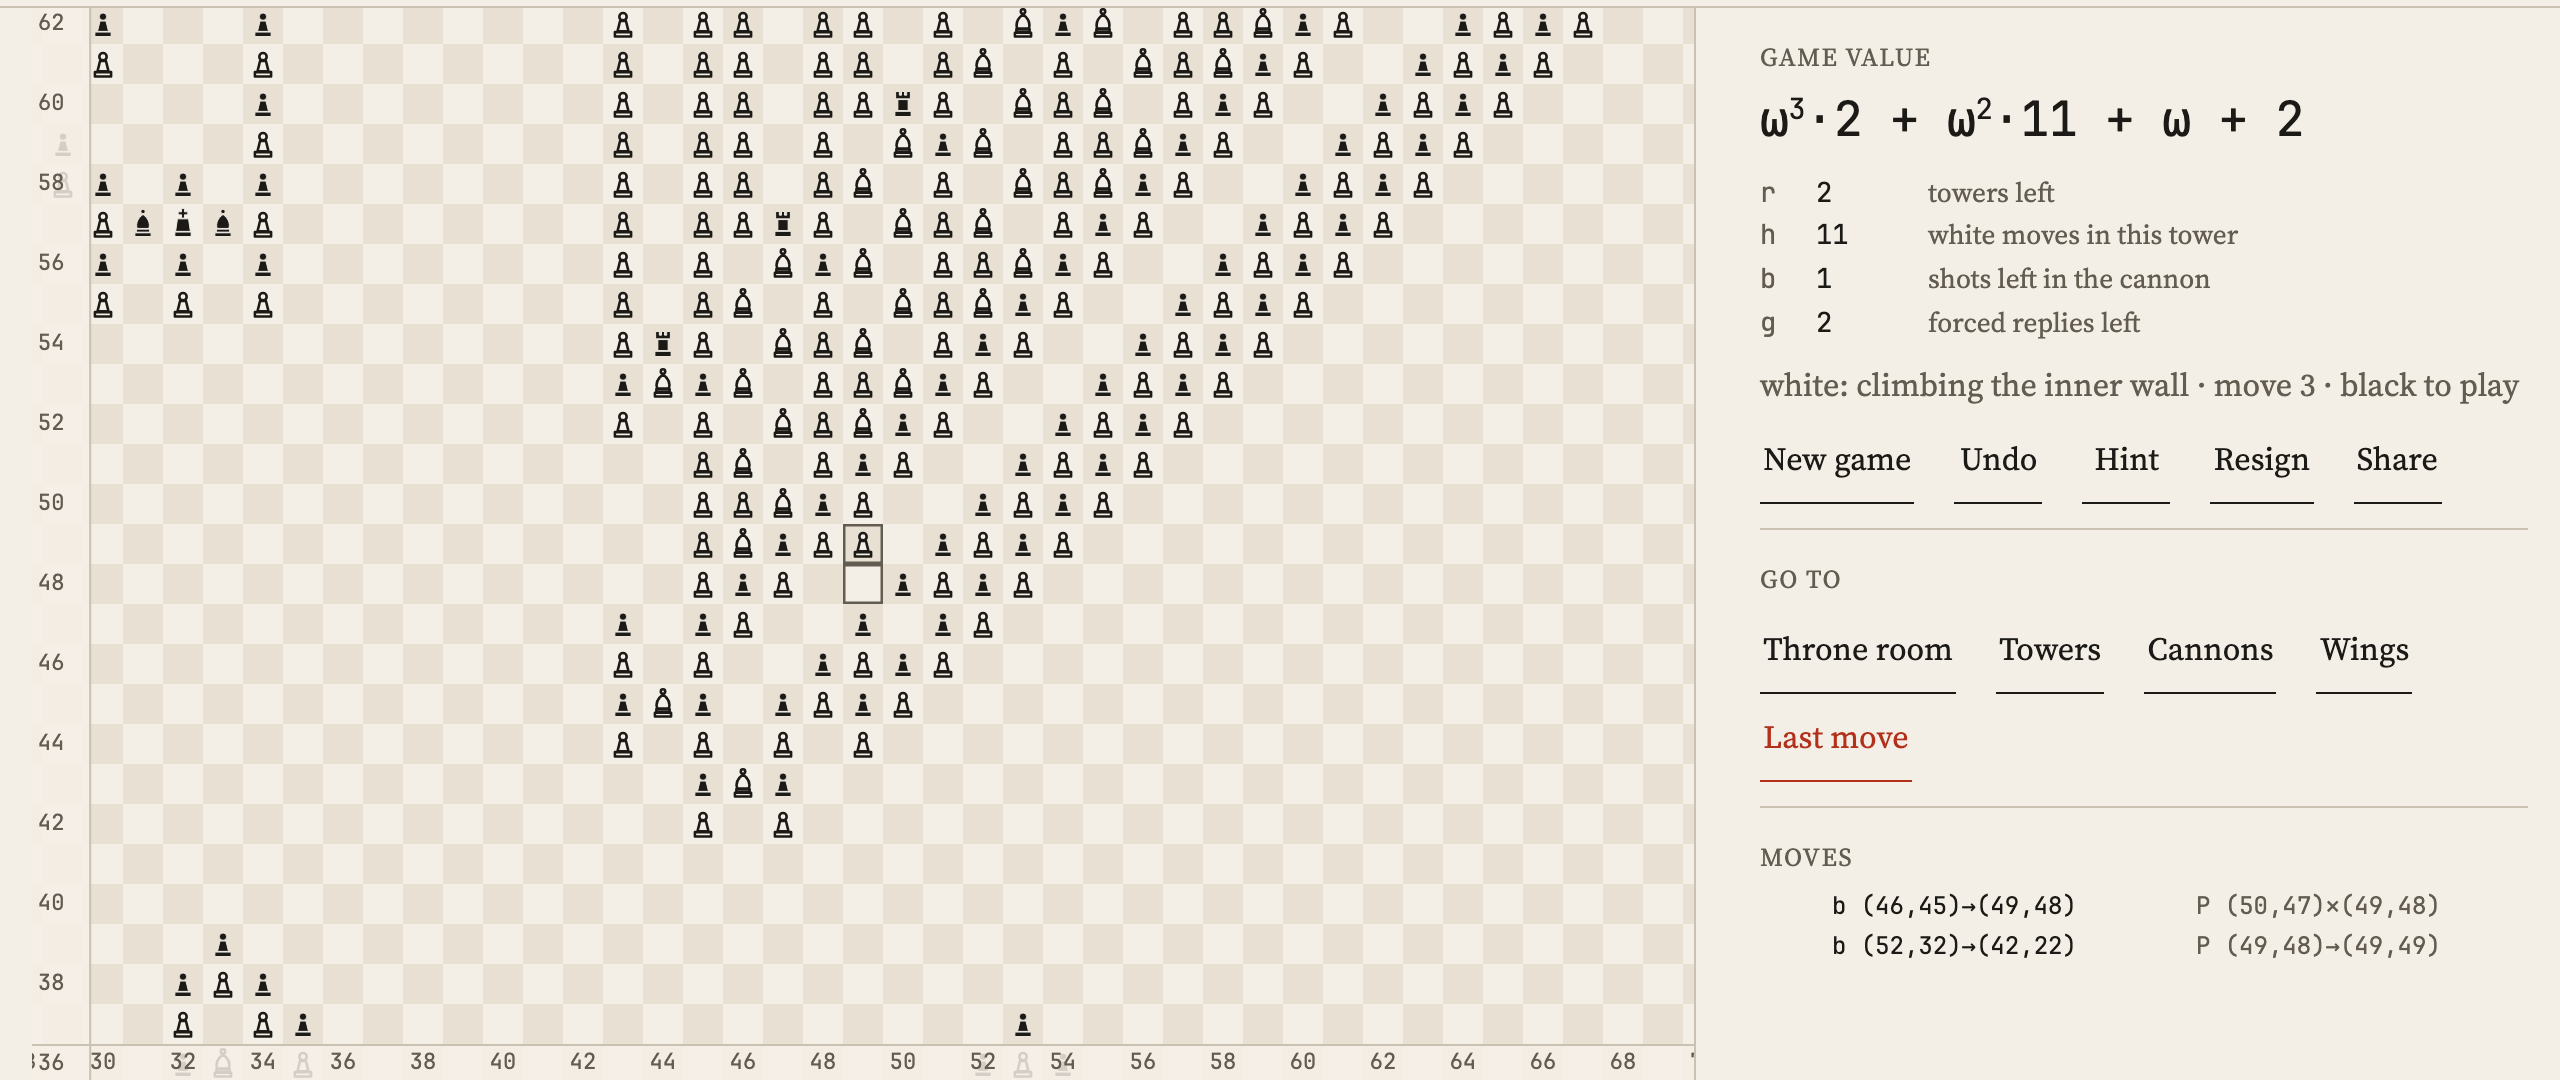
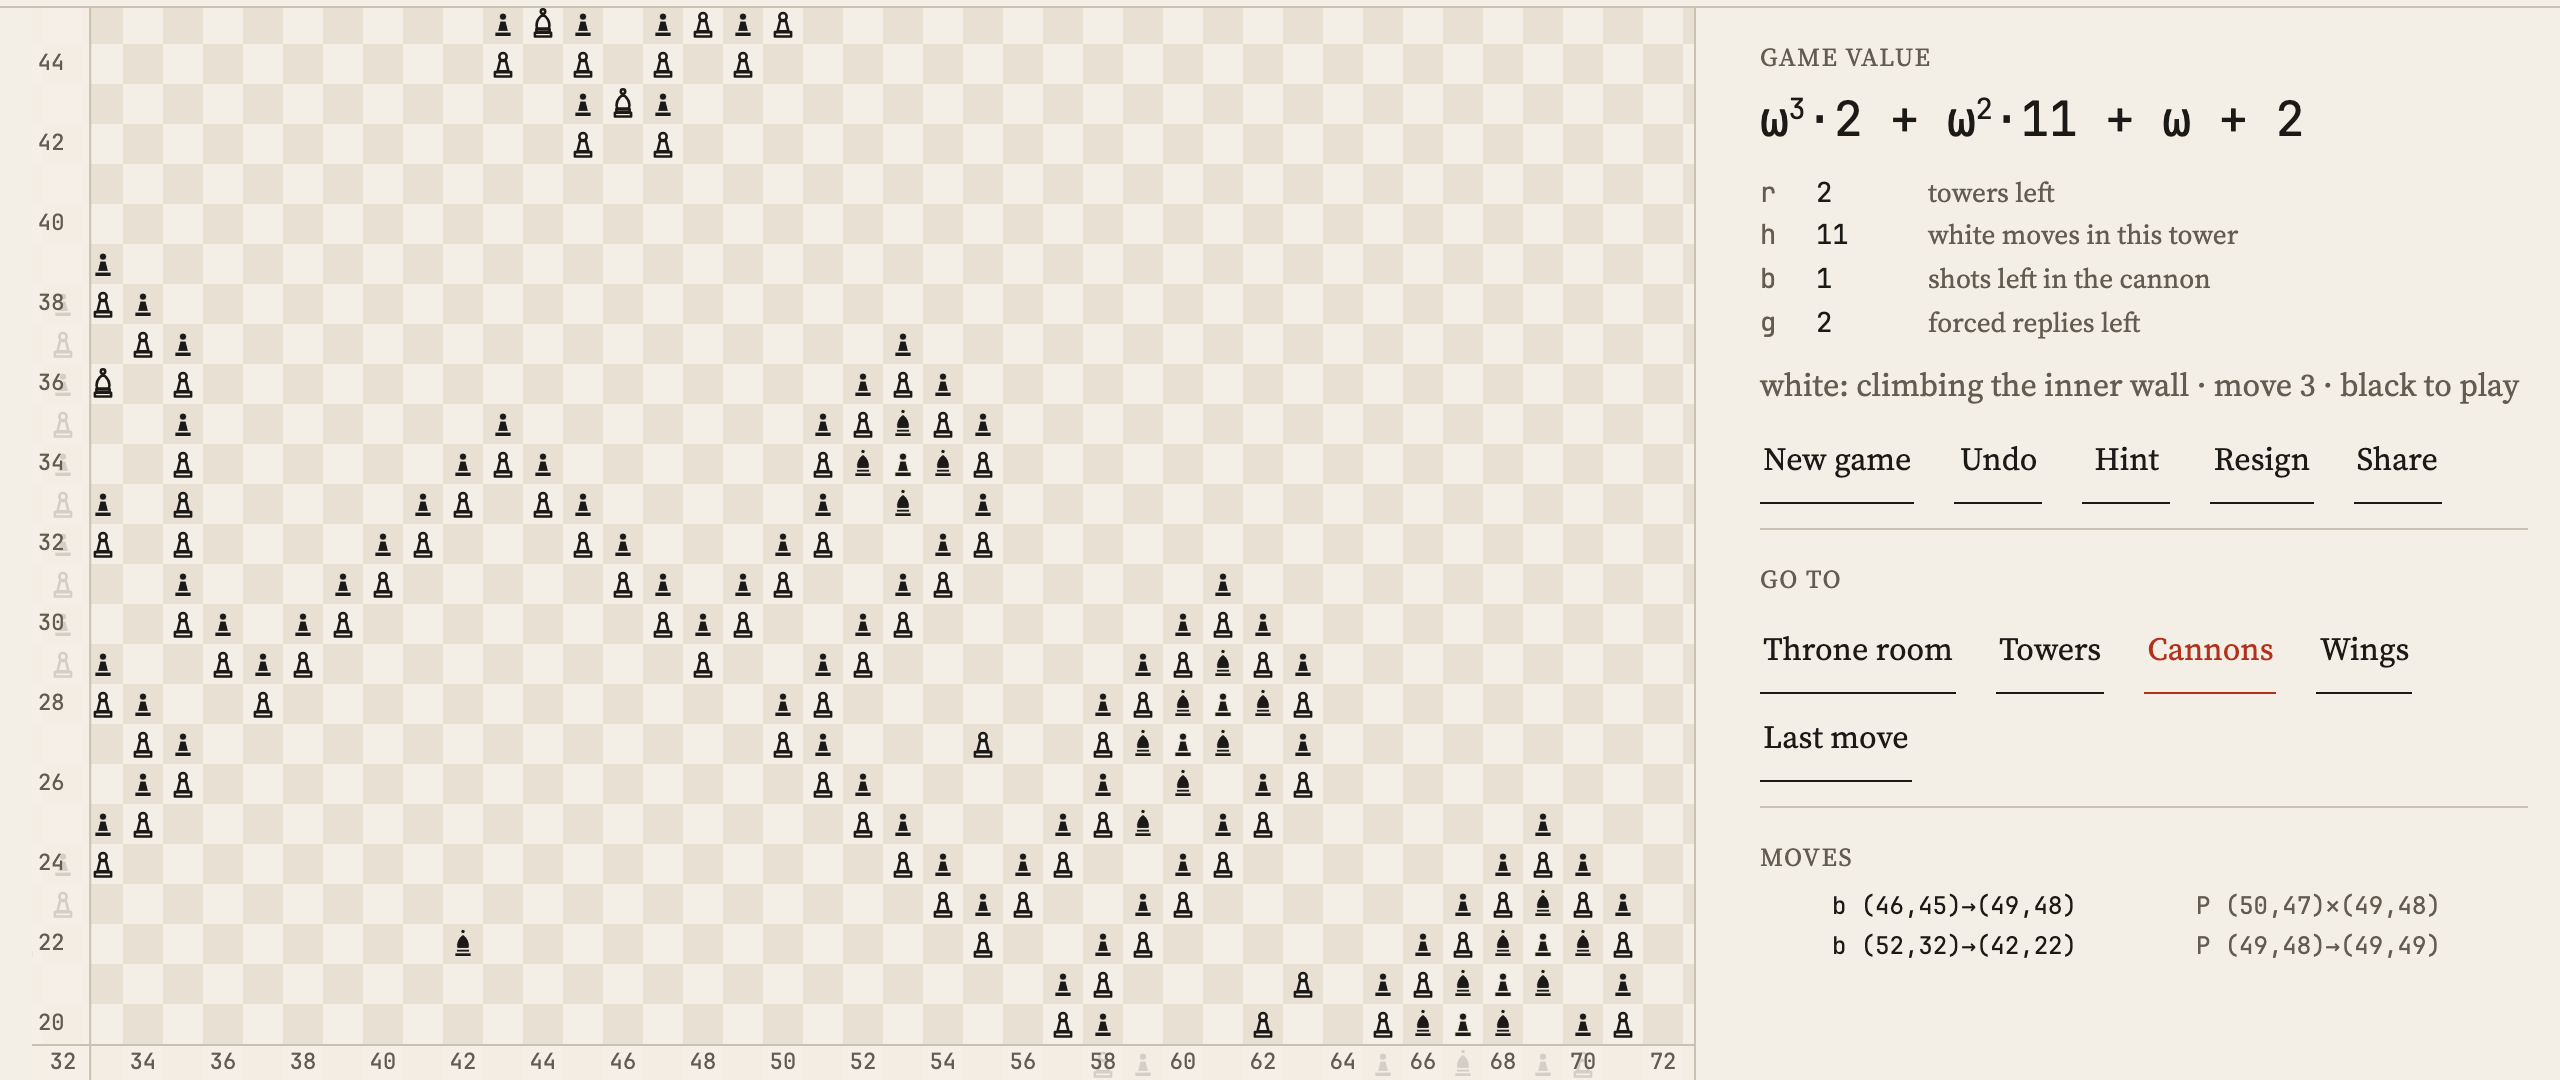
fix(talk): name the value slides plainly and frame the cannon still on the cannon
"The accounting" said nothing to a viewer; the frames are now "The
value of a main-line position" and "The value, move by move". The rook
caption no longer quotes an h the still cannot show, and the notes say
why it reads 13 after the capture. Moment 2 is centred on the cannon so
the fired bishop is in the frame.

diff --git a/talk/slides.tex b/talk/slides.tex
@@ -36,7 +36,7 @@
   \begin{tabular}{@{}ll@{}}
     \toprule
     Part A, Sean & ordinals, open games, game values, positions worth $\omega$, $\omega^2$, $\omega^3$ \\
-    Part B, Andrew & the position worth $\omega^4$, its main line, the accounting, a live demo \\
+    Part B, Andrew & the position worth $\omega^4$, its main line, how the value falls move by move \\
     \bottomrule
   \end{tabular}
 \end{frame}
@@ -347,7 +347,7 @@
   \end{columns}
 \end{frame}
 
-\begin{frame}{The accounting}
+\begin{frame}{The value of a main-line position}
   \begin{block}{The value during the main line (\EHP, Section 3)}
     \[
       \omega^3\cdot r \;+\; \omega^2\cdot h \;+\; \omega\cdot b \;+\; g
@@ -365,7 +365,7 @@
   \flag{proof sketch} the paper's analysis is careful but informal in places; the slide reports its structure.
 \end{frame}
 
-\begin{frame}{The accounting, seen moving}
+\begin{frame}{The value, move by move}
   \flag{supplementary, ours} The next five frames are stills from a browser implementation of the Section 4
   compact position and of white's strategy, written for this presentation. It is not part of the published
   results. \url{https://infinite-chess.dwainosaur.com}
@@ -373,7 +373,7 @@
   Each still is the panel after one black move and white's reply. Watch which term moves.
 \end{frame}
 
-\begin{frame}{The accounting, moment 1 of 5}
+\begin{frame}{The value, move by move: 1 of 5}
   \framesubtitle{The key bishop goes out three squares}
   \centering
   \includegraphics[width=\textwidth,height=0.67\textheight,keepaspectratio]{figures/demo/1-key-bishop.png}
@@ -381,7 +381,7 @@
   {\footnotesize White takes it: $\omega^3\cdot 2+\omega^2\cdot 12$. The distance chose $r=2$; $h=12$ free moves to go in this tower.}
 \end{frame}
 
-\begin{frame}{The accounting, moment 2 of 5}
+\begin{frame}{The value, move by move: 2 of 5}
   \framesubtitle{Black opens cannon 1 at wing 1}
   \centering
   \includegraphics[width=\textwidth,height=0.67\textheight,keepaspectratio]{figures/demo/2-cannon-open.png}
@@ -389,7 +389,7 @@
   {\footnotesize $b$ and $g$ appear, and white's one free move took $h$ from 12 to 11: $\omega^3\cdot 2+\omega^2\cdot 11+\omega+2$.}
 \end{frame}
 
-\begin{frame}{The accounting, moment 3 of 5}
+\begin{frame}{The value, move by move: 3 of 5}
   \framesubtitle{The bishop attacks gate 1; white answers}
   \centering
   \includegraphics[width=\textwidth,height=0.67\textheight,keepaspectratio]{figures/demo/3-gate-answered.png}
@@ -397,7 +397,7 @@
   {\footnotesize A forced reply: $g$ went from 2 to 1 and nothing else moved: $\omega^3\cdot 2+\omega^2\cdot 11+\omega+1$.}
 \end{frame}
 
-\begin{frame}{The accounting, moment 4 of 5}
+\begin{frame}{The value, move by move: 4 of 5}
   \framesubtitle{Shooter 1 fires at wing 2}
   \centering
   \includegraphics[width=\textwidth,height=0.67\textheight,keepaspectratio]{figures/demo/4-shot.png}
@@ -405,12 +405,12 @@
   {\footnotesize $b$ fell to 0 and $g$ jumped to 7 as the shot reached a fresh wing: $\omega^3\cdot 2+\omega^2\cdot 11+7$.}
 \end{frame}
 
-\begin{frame}{The accounting, moment 5 of 5}
-  \framesubtitle{Six hundred plies on, the rook goes up five and is taken}
+\begin{frame}{The value, move by move: 5 of 5}
+  \framesubtitle{Six hundred plies on, the rook goes up five and is taken: $\omega^3+\omega^2\cdot 13+\omega$}
   \centering
   \includegraphics[width=\textwidth,height=0.67\textheight,keepaspectratio]{figures/demo/5-rook.png}
   \par\vskip 0.1cm
-  {\footnotesize From $\omega^3\cdot 2+\omega$ with $h=0$, the lift chose $h=14$; the capture spent the tower: $\omega^3+\omega^2\cdot 13+\omega$.}
+  {\footnotesize Before the lift the panel read $\omega^3\cdot 2+\omega$ with $h=0$. The height set $h$; the capture spent the tower and $r$ fell to 1.}
 \end{frame}
 
 \begin{frame}{Why deviations lose}
@@ -435,7 +435,7 @@
     \end{column}
     \begin{column}{0.7\textwidth}
       Section 4 of \EHP\ folds the battery onto a quarter plane. The gateways stay as before; the cannons
-      sit in a column with a vertical wall on the right. The same accounting applies, and the free quarter
+      sit in a column with a vertical wall on the right. The same value formula applies, and the free quarter
       plane leaves room for larger constructions. The stills above come from this version.
     \end{column}
   \end{columns}

diff --git a/talk/notes.tex b/talk/notes.tex
@@ -223,7 +223,7 @@ more forced replies there. Opening a cannon costs black one tempo, which is whit
 n shots: the count b. The cannons grow along the battery, so black can always open a bigger one.}
 \source{[EHP17] Figure 5 and pages 11 to 13.}
 
-\slide{The accounting}{Andrew}{2:00}
+\slide{The value of a main-line position}{Andrew}{2:00}
 \screen{The ordinal with four terms and the three rules.}
 \say{Here is the whole position as a single ordinal: omega cubed times the towers left, plus omega squared
 times white's moves left in this tower, plus omega times the shots left, plus the forced replies left. A gateway
@@ -233,7 +233,7 @@ can never raise a leading term, and white lowers one whenever black runs out of 
 analysis of this is careful but written informally, so we label it a sketch.}
 \source{[EHP17] Section 3, pages 13 to 15.}
 
-\slide{The accounting, seen moving}{Andrew}{0:20}
+\slide{The value, move by move}{Andrew}{0:20}
 \screen{The supplementary label and the app's address.}
 \say{The next five frames are stills from a browser implementation we wrote for this presentation. It plays
 white's strategy from the paper on the compact version of the position from Section 4 and shows the value
@@ -257,7 +257,7 @@ free move, and it used it: climbing the inner wall took h from twelve to eleven.
 \slide{Moment 3: a forced reply}{Andrew}{0:15}
 \screen{The bishop on gate 1's attack square; white's guard has moved; $\omega^3\cdot 2+\omega^2\cdot 11+\omega+1$.}
 \say{Black attacked gate one and white had to answer. g dropped from two to one and nothing else moved. That is
-what a forced reply looks like in the accounting.}
+what a forced reply looks like in the value.}
 
 \slide{Moment 4: a shot}{Andrew}{0:15}
 \screen{Shooter 1 on wing 2's hallway; white shoring up the cannon; $\omega^3\cdot 2+\omega^2\cdot 11+7$.}
@@ -267,8 +267,9 @@ will each cost white a move as well.}
 \slide{Moment 5: the rook}{Andrew}{0:30}
 \screen{Six hundred plies on, the rook lifted five and captured; $\omega^3+\omega^2\cdot 13+\omega$.}
 \say{This still is from much later in the same game, saved as a link. White had finished the tower's free moves,
-h was zero, and the rook came under attack. Black lifted it five squares, which chose h equals fourteen, and the
-capture spent the tower: r fell from two to one. The whole cycle now starts again with one tower left.}
+h was zero, and the rook came under attack. Black lifted it five squares, which set h to fourteen for a moment; white's capture is the first of those moves,
+so the still shows h equals thirteen, and it spent the tower: r fell from two to one. The g term reads omega because a
+bishop still sits in a doorway with its threats open. The whole cycle now starts again with one tower left.}
 \source{The saved game is \input{build/link.tex}; it opens the app at move 304 with the rook attacked.}
 
 \slide{Why deviations lose}{Andrew}{1:30}
@@ -282,7 +283,7 @@ bishops that are stuck above the pawn diagonal. Each line here stands for a para
 
 \slide{The compact battery}{Andrew}{0:40}
 \screen{Figure 6 of [EHP17].}
-\say{Section 4 folds the battery onto a quarter plane with a vertical wall. Same gateways, same accounting,
+\say{Section 4 folds the battery onto a quarter plane with a vertical wall. Same gateways, same value formula,
 and a free quarter plane left over for bigger constructions. The demo uses this version.}
 \source{[EHP17] Section 4, pages 21 and 22.}
 

diff --git a/talk/checklist.md b/talk/checklist.md
@@ -11,8 +11,8 @@ What the grading rubric asks for, and where the deck answers it.
 - Context and connections: slides 2 and 13, the hand-off from the 2014 results to the 2017 theorem.
 - Unfamiliar terms defined: open game on slide 4, ordinals on slide 5, game value on slide 7, the omega one of chess on slide 13.
 - Precise statements with quantifiers: the definition on slide 7, the fundamental observation on slide 8, Theorem 1 on slide 14.
-- A worked example: slides 10 and 11, and the five accounting moments on slides 21 to 26.
-- The proof's key reasoning: the full proof on slides 8 and 9, the tempo lemma on slide 16, the accounting on slide 20.
+- A worked example: slides 10 and 11, and the five move-by-move value stills on slides 21 to 26.
+- The proof's key reasoning: the full proof on slides 8 and 9, the tempo lemma on slide 16, the value formula on slide 20.
 - Hypotheses and logical dependencies: open game before value, well-foundedness before the proof, the tempo lemma before gateways and cannons.
 - Proof sketches and omissions labelled: every slide carries a label; say the word "sketch" out loud where the label says so.
 - Unproved results stated with why they apply: Theorem 4, Conjecture 5, Theorem 10 and Gale-Stewart on slides 9 and 13.
@@ -24,7 +24,7 @@ While recording.
 - Say the slide's takeaway sentence from the notes before moving on.
 - Name the paper and figure number when a diagram comes up.
 - Keep each slide near its target time; the notes total 25 minutes.
-- On the accounting moments, read the value aloud and say which term moved.
+- On the move-by-move slides, read the value aloud and say which term moved.
 
 After recording.
 
